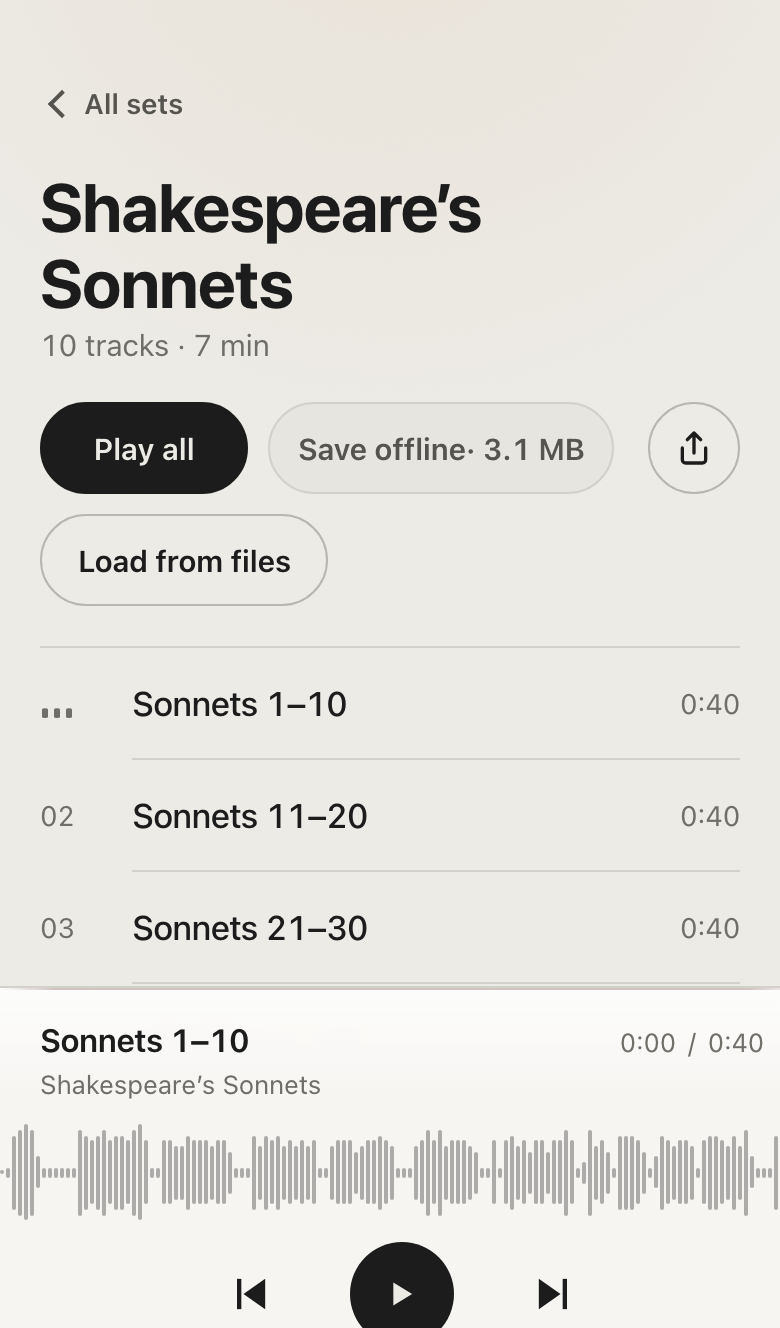
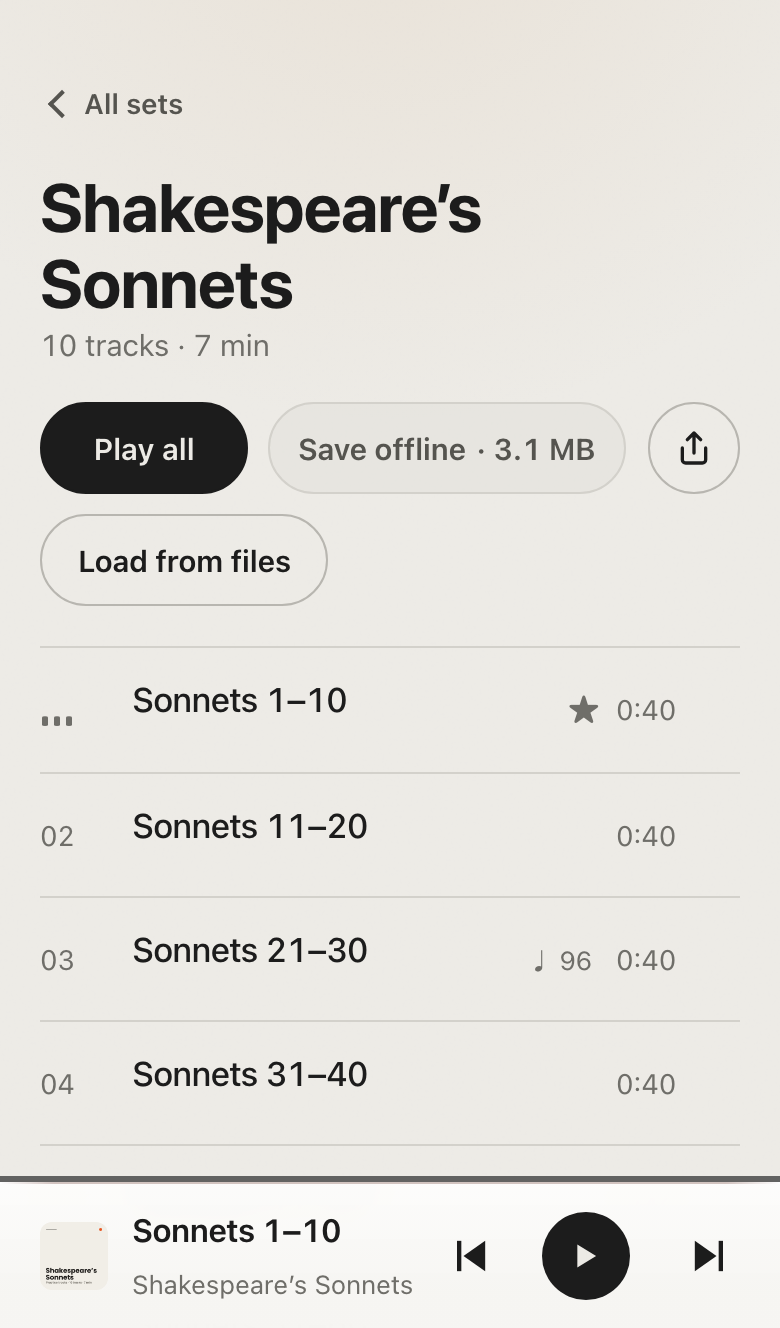
docs: retake the screenshots, and fix what they showed (#113)

diff --git a/assets/app.css b/assets/app.css
@@ -78,6 +78,7 @@ body.swapped .masthead>*,body.swapped .sets li,body.swapped .tracks li{animation
 .masthead .label{margin-top:8px}
 .actions{display:flex;flex-wrap:wrap;align-items:center;gap:10px;margin-top:18px}
 .masthead{container-type:inline-size}
+#offline .size{margin-left:.35em} /* the button is a flex container and drops the leading space in " · 3.1 MB" as inter-item whitespace */
 @container (max-width:345px){#offline .size{display:none}} /* Pause, Save offline, share: on a 375px phone the size is what gives way */
 .btn-quiet.is-done{color:var(--ink-2)}
 .btn-quiet.is-busy{color:var(--ink-2);border-color:var(--line)}
@@ -357,7 +358,7 @@ body.now-playing .lyrics{z-index:21;inset:0 0 auto 0;height:calc(100% - 190px - 
    where a click lands — sits under the transport. The target has to actually end where they begin. */
 .deck.is-compact .deck-open{width:calc(100% - 130px - var(--dl-gutter) - var(--s2))}
 .deck-open:active .deck-title{opacity:.6}
-.deck-open::after{content:attr(data-line);display:block;min-height:1.2em;color:var(--ink-3);font-size:.8125rem;line-height:1.2} /* the sheet's name, or the set's: never blank, so the deck's constant height is honest */
+.deck-open::after{content:attr(data-line);display:block;min-height:1.2em;max-width:100%;overflow:hidden;text-overflow:ellipsis;white-space:nowrap;color:var(--ink-3);font-size:.8125rem;line-height:1.2} /* one line, always: the art and the transport are centred on a row height that assumes it */ /* the sheet's name, or the set's: never blank, so the deck's constant height is honest */
 .deck-open[data-sheet][aria-expanded="true"]::after{color:var(--ink)}
 .deck-time{display:inline-flex;align-items:baseline;gap:8px;min-width:0;max-width:100%;overflow:hidden} /* clipped, never under the controls */
 .deck-time :focus-visible{outline-offset:-2px} /* rings stay inside the clip */
@@ -398,7 +399,10 @@ body.now-playing .lyrics{z-index:21;inset:0 0 auto 0;height:calc(100% - 190px - 
    column's edge. The bar has no such mark, and without the same inset its last control overshoots
    every duration above it by exactly that width. The tap target below has to clear the controls by
    the same amount, so both read the one value. */
-.deck{--dl-gutter:52px;--bar-row:73px} /* the compact row: two 13px paddings around a two-line title block */
+.deck{--dl-gutter:52px;--bar-row:73px}
+/* On a phone the gutter costs more than it buys: it is worth 44px to line the last control up with
+   the last duration on a laptop, and not worth clipping the track's name to do it on a handset. */
+@media (max-width:520px){.deck{--dl-gutter:0px}} /* the compact row: two 13px paddings around a two-line title block */
 
 /* transport: secondary (repeat, the A-B loop affordance) left, primary (previous, play, next) right — both
    inside the one column, never the viewport (see .deck-inner). Two groups, not five loose controls. */

diff --git a/scripts/screenshots.js b/scripts/screenshots.js
@@ -25,6 +25,13 @@ const PHONE = { width: 390, height: 664 };
 		const page = await ctx.newPage();
 		await visit( page );
 		await page.waitForTimeout( 1200 ); // let the entrance animations settle
+		// A title caught mid-marquee reads as a bug in a screenshot. Park it at the start.
+		await page.evaluate( () => {
+			document.querySelectorAll( '.deck-title .mq' ).forEach( ( el ) => {
+				el.style.animation = 'none';
+				el.style.transform = 'none';
+			} );
+		} );
 		await page.screenshot( { path: path.join( OUT, name ) } );
 		await ctx.close();
 		console.log( `${ name }  ${ PHONE.width * 2 }x${ PHONE.height * 2 }  ${ scheme }` );
